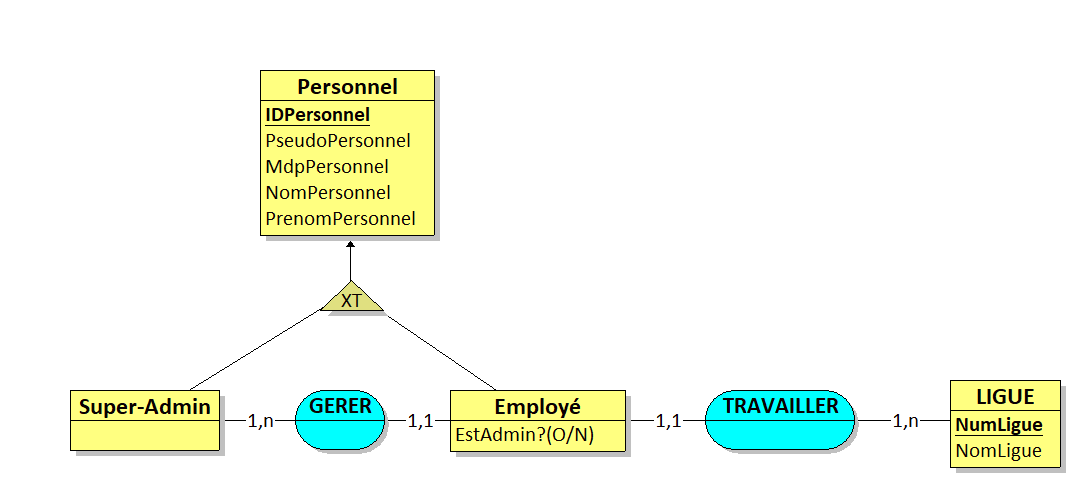
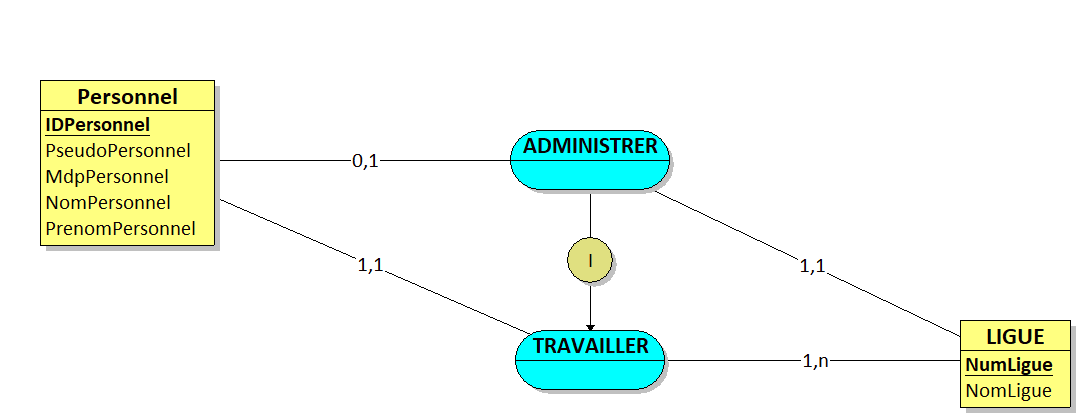
:construction: Modify things
Upload old rework

diff --git a/src/testsUnitaires/personnel/TestGestionPersonnel.java b/src/testsUnitaires/personnel/TestGestionPersonnel.java
@@ -23,22 +23,6 @@ class TestGestionPersonnel {
 		
 		ligue.setAdministrateur(employe);
 		assertEquals(ligue, personnel.getLigue(employe));
-		
-/*
-		try {
-			Field serializedFile = Serialization.class.getDeclaredField("FILE_NAME");
-			serializedFile.setAccessible(true);
-			String initialValue = (String) serializedFile.get(serializedFile);
-			serializedFile.set(serializedFile, "THISFILEDOESNTEXISTS");
-			
-			assertTrue(GestionPersonnel.getGestionPersonnel().getLigues().isEmpty());
-			
-			serializedFile.set(serializedFile, initialValue);
-		} catch (NoSuchFieldException | SecurityException | IllegalArgumentException | IllegalAccessException e) {
-			fail();
-			// e.printStackTrace();
-		}
-*/	
 	}
 	
 	@Test
@@ -51,7 +35,6 @@ class TestGestionPersonnel {
 			assertTrue(gestionPersonnel.getLigues().isEmpty());
 		} catch (NoSuchMethodException | SecurityException | InstantiationException | IllegalAccessException | IllegalArgumentException | InvocationTargetException e) {
 			fail("The specified constructor can't be found!");
-			// e.printStackTrace();
 		}
 	}
 	

diff --git a/src/testsUnitaires/personnel/TestLigue.java b/src/testsUnitaires/personnel/TestLigue.java
@@ -1,8 +1,6 @@
 package personnel;
 
-import static org.junit.Assert.assertFalse;
-import static org.junit.jupiter.api.Assertions.assertEquals;
-import static org.junit.jupiter.api.Assertions.assertThrows;
+import static org.junit.jupiter.api.Assertions.*;
 
 import org.junit.jupiter.api.Test;
 
@@ -36,9 +34,18 @@ class TestLigue
 	{
 		Ligue ligue = createLigueFlechette();
 		Employe employe = createBouchard(ligue);
+		Employe employe2 = ligue.addEmploye("Toto", "Toto", "fzarf@test.com", "azerty1234");
+		
+		assertEquals(GestionPersonnel.getGestionPersonnel().getRoot(), ligue.getAdministrateur());
 		
 		ligue.setAdministrateur(employe);
 		assertEquals(ligue.getAdministrateur(), employe);
+		assertTrue(employe.estAdmin(ligue));
+		
+		ligue.setAdministrateur(employe2);
+        assertEquals(ligue.getAdministrateur(), employe2);
+        assertTrue(employe2.estAdmin(ligue));
+        assertFalse(employe.estAdmin(ligue));
 		
 		assertThrows(DroitsInsuffisants.class, () -> new Ligue("Escrime").setAdministrateur(employe));
 	}

diff --git a/src/testsUnitaires/personnel/TestEmploye.java b/src/testsUnitaires/personnel/TestEmploye.java
@@ -107,7 +107,7 @@ class TestEmploye {
 		Employe employe = createKarlo(ligue);
 		Employe employe2 = ligue.addEmploye("Javell", "Francis", "francisj@wanadoo.fr", "S3cur3");
 		
-		assertTrue(employe.compareTo(employe) == 0);
-		assertFalse(employe.compareTo(employe2) == 0);
+		assertEquals(0, employe.compareTo(employe));
+		assertNotEquals(0, employe.compareTo(employe2));
 	}
 }
